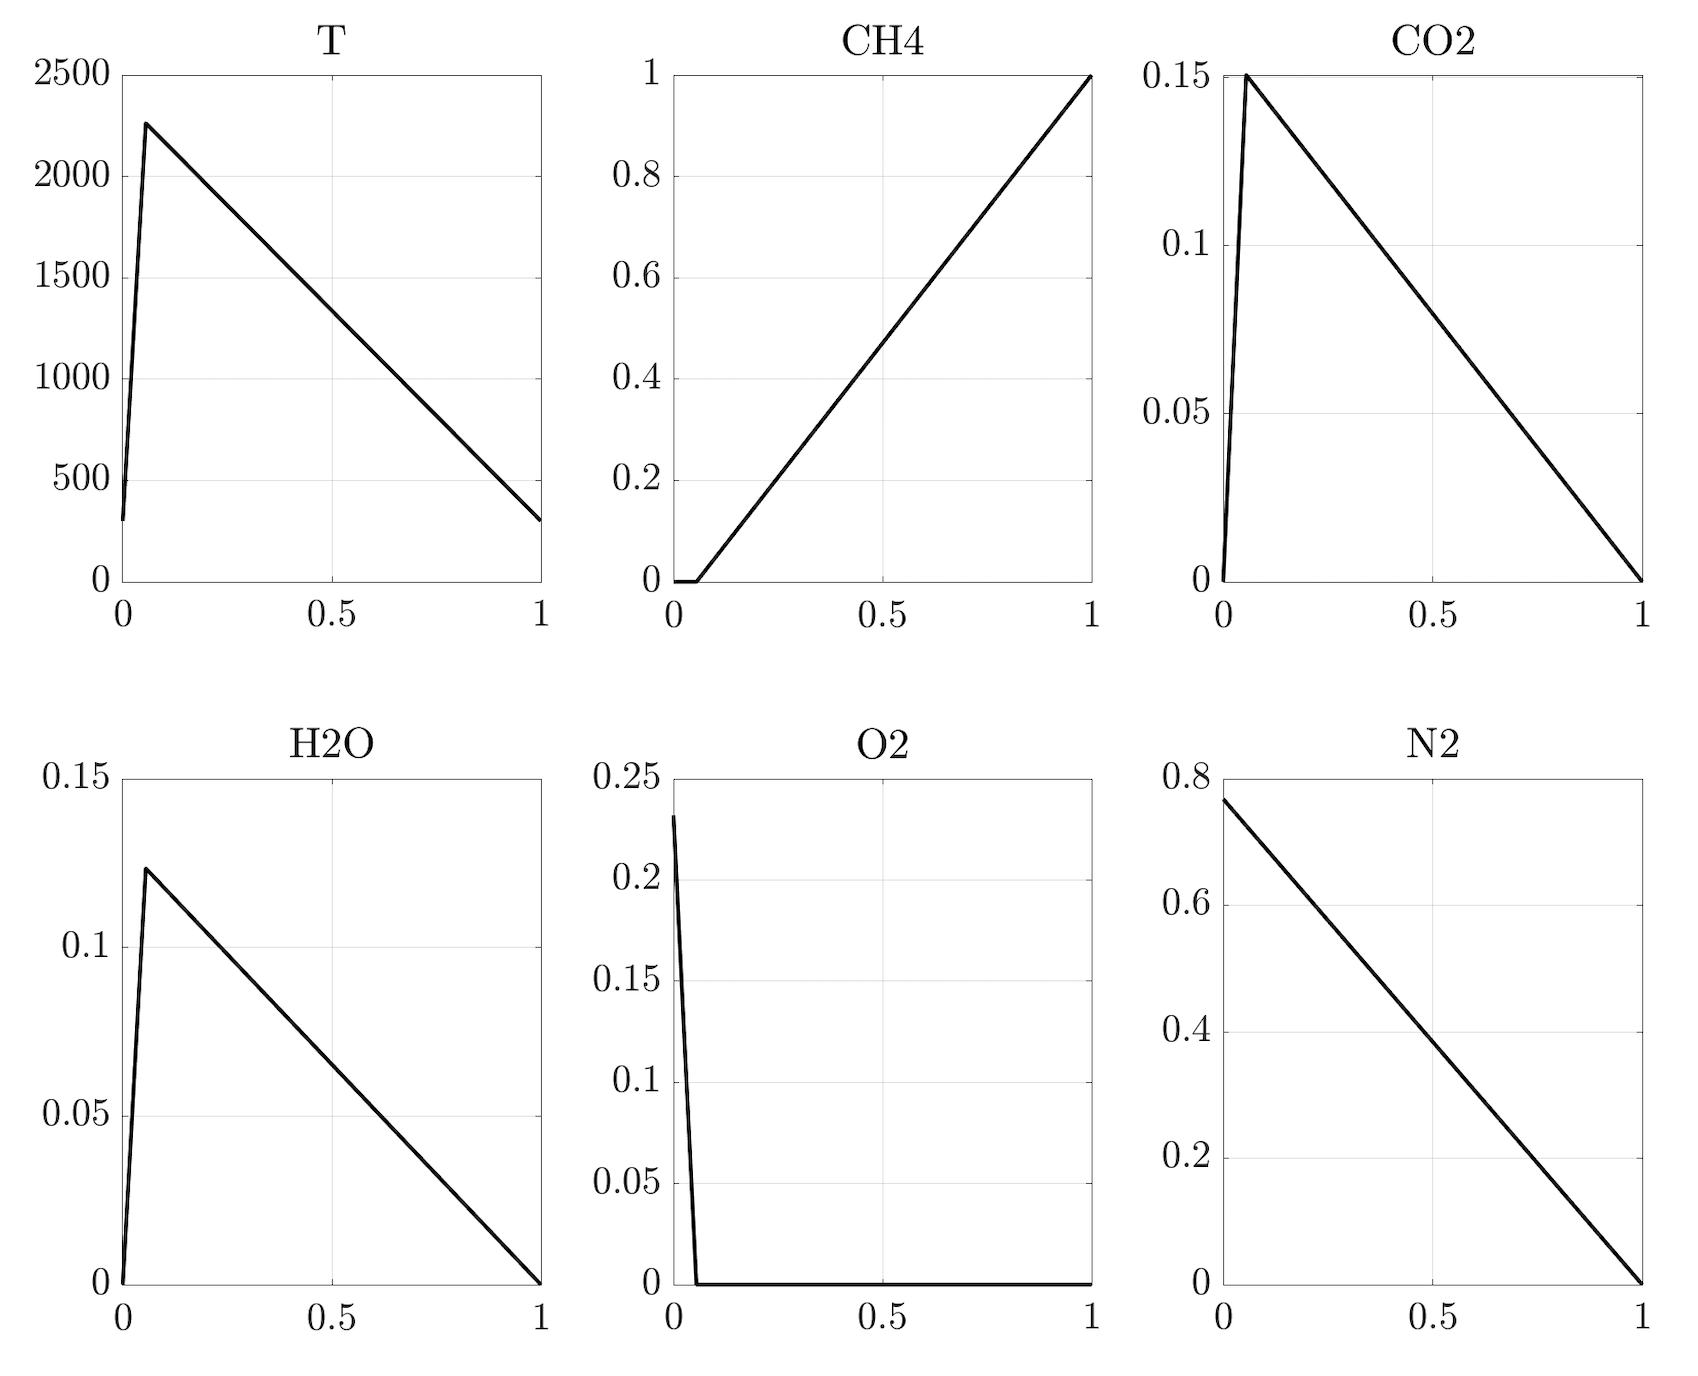
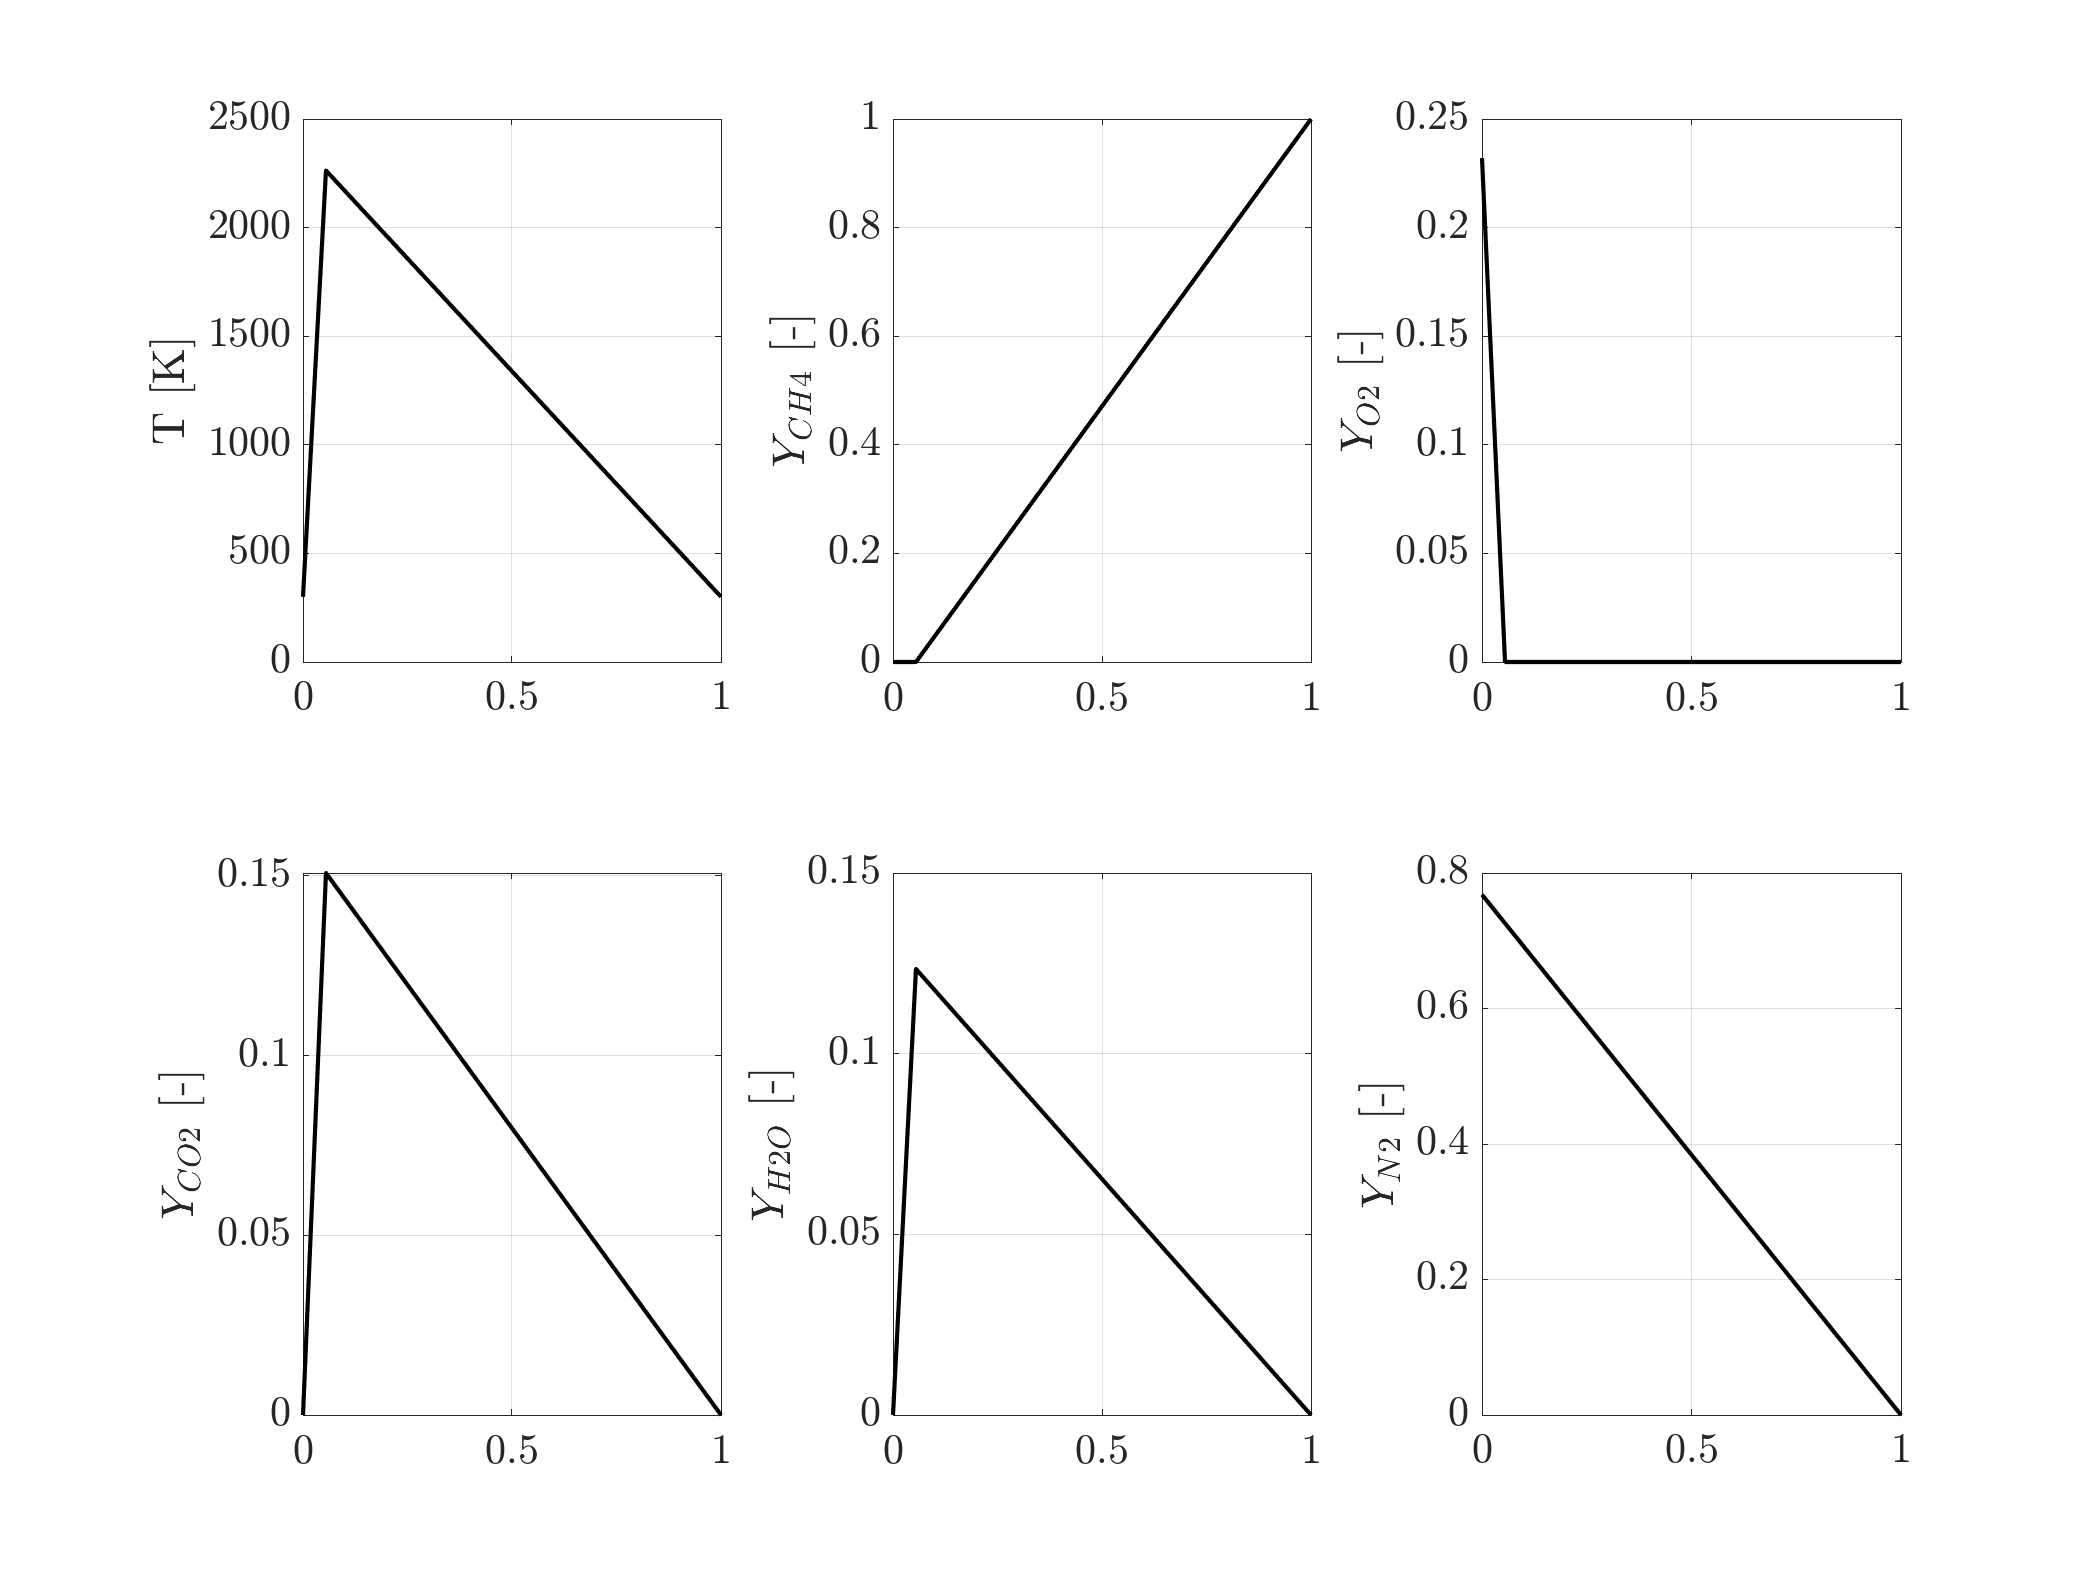
Modified graph

diff --git a/data-generation/Burke_Schumann_solution_CH4_air.m b/data-generation/Burke_Schumann_solution_CH4_air.m
@@ -152,28 +152,35 @@ if graph == true
     set(gcf, 'Units', 'Normalized', 'OuterPosition', [0, 0, 0.7, 1]);
     subplot(2, 3, 1)
     plot(Z, T, 'k', 'LineWidth', 2)
-    title('T [K]', 'FontSize', 25)
+    % xlabel('F [-]', 'FontSize', 25)
+    ylabel('T [K]', 'FontSize', 25)
     set(gca, 'FontSize', 20); box on; grid on
     subplot(2, 3, 2)
     plot(Z, yCH4, 'k', 'LineWidth', 2)
-    title('CH4', 'FontSize', 25)
+    % xlabel('F [-]', 'FontSize', 25)
+    ylabel('$Y_{CH4}$ [-]', 'FontSize', 25)
     set(gca, 'FontSize', 20); box on; grid on
     subplot(2, 3, 3)
-    plot(Z, yCO2, 'k', 'LineWidth', 2)
-    title('CO2', 'FontSize', 25)
+    plot(Z, yO2, 'k', 'LineWidth', 2)
+    % xlabel('F [-]', 'FontSize', 25)
+    ylabel('$Y_{O2}$ [-]', 'FontSize', 25)
     set(gca, 'FontSize', 20); box on; grid on
     subplot(2, 3, 4)
-    plot(Z, yH2O, 'k', 'LineWidth', 2)
-    title('H2O', 'FontSize', 25)
+    plot(Z, yCO2, 'k', 'LineWidth', 2)
+    % xlabel('F [-]', 'FontSize', 25)
+    ylabel('$Y_{CO2}$ [-]', 'FontSize', 25)
     set(gca, 'FontSize', 20); box on; grid on
     subplot(2, 3, 5)
-    plot(Z, yO2, 'k', 'LineWidth', 2)
-    title('O2', 'FontSize', 25)
+    plot(Z, yH2O, 'k', 'LineWidth', 2)
+    % xlabel('F [-]', 'FontSize', 25)
+    ylabel('$Y_{H2O}$ [-]', 'FontSize', 25)
     set(gca, 'FontSize', 20); box on; grid on
     subplot(2, 3, 6)
     plot(Z, yN2, 'k', 'LineWidth', 2)
-    title('N2', 'FontSize', 25)
+    % xlabel('F [-]', 'FontSize', 25)
+    ylabel('$Y_{N2}$ [-]', 'FontSize', 25)
     set(gca, 'FontSize', 20); box on; grid on
+
     filename = ['Burke_Schumann_CH4_air_state_space.png'];
     saveas(gcf, filename, 'png');
 
